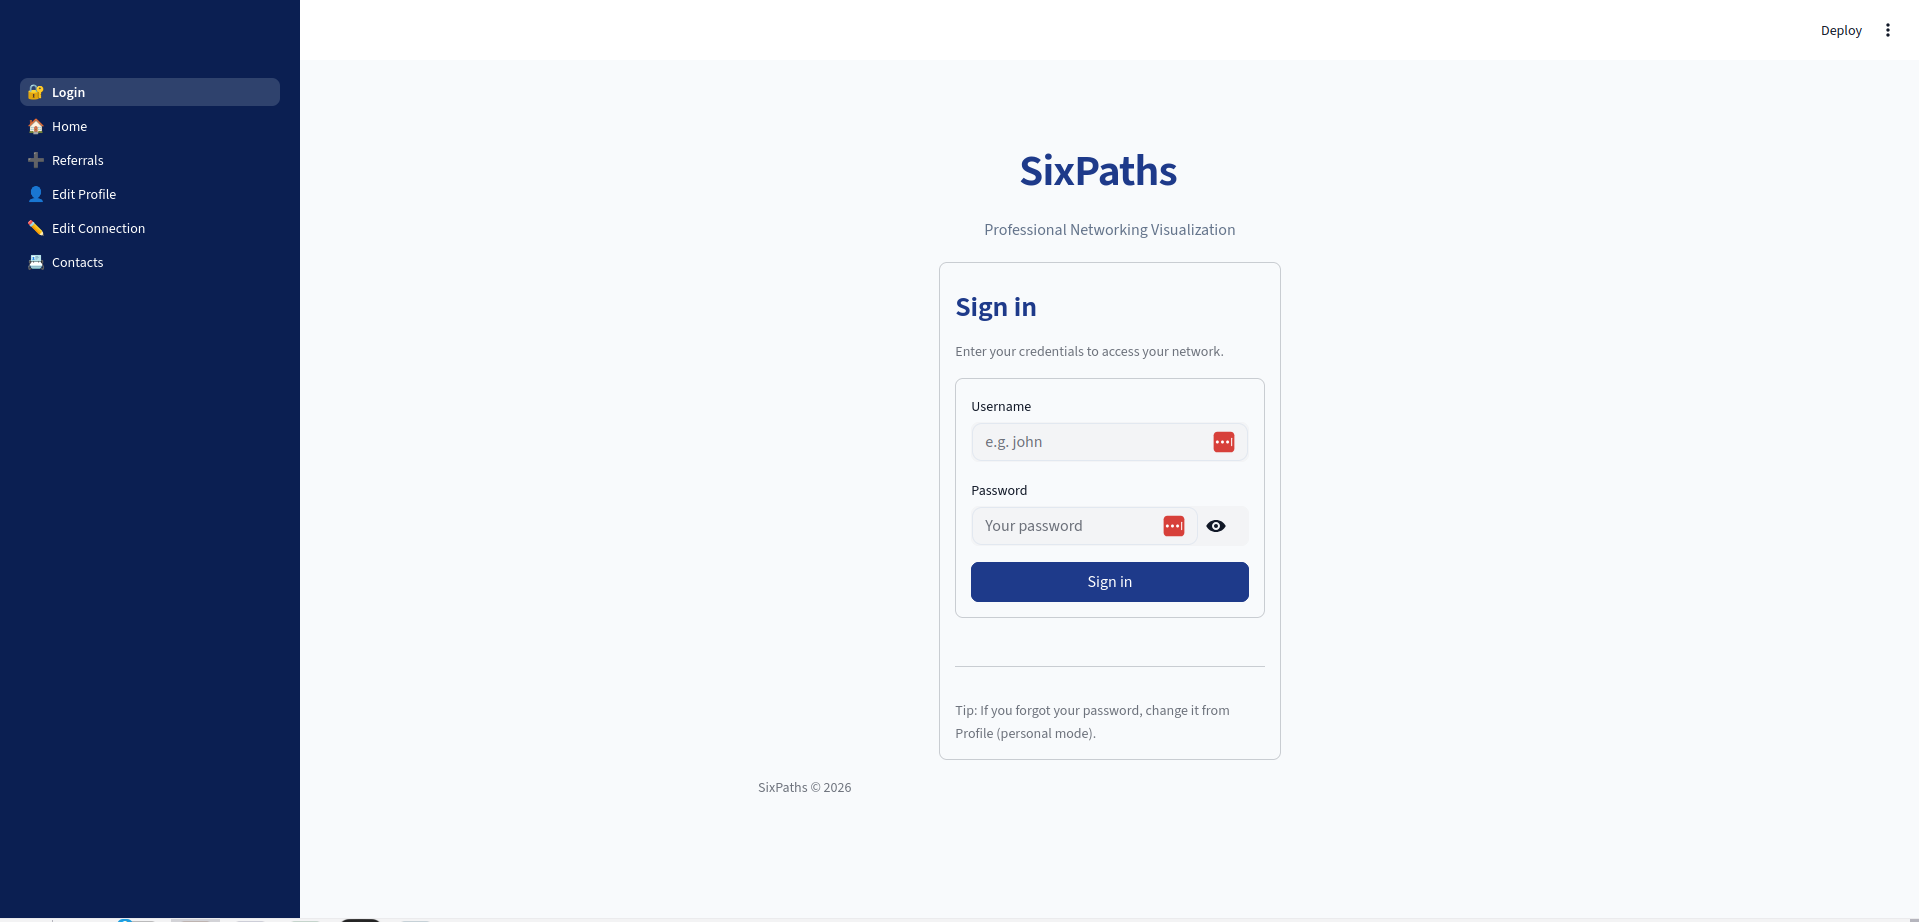
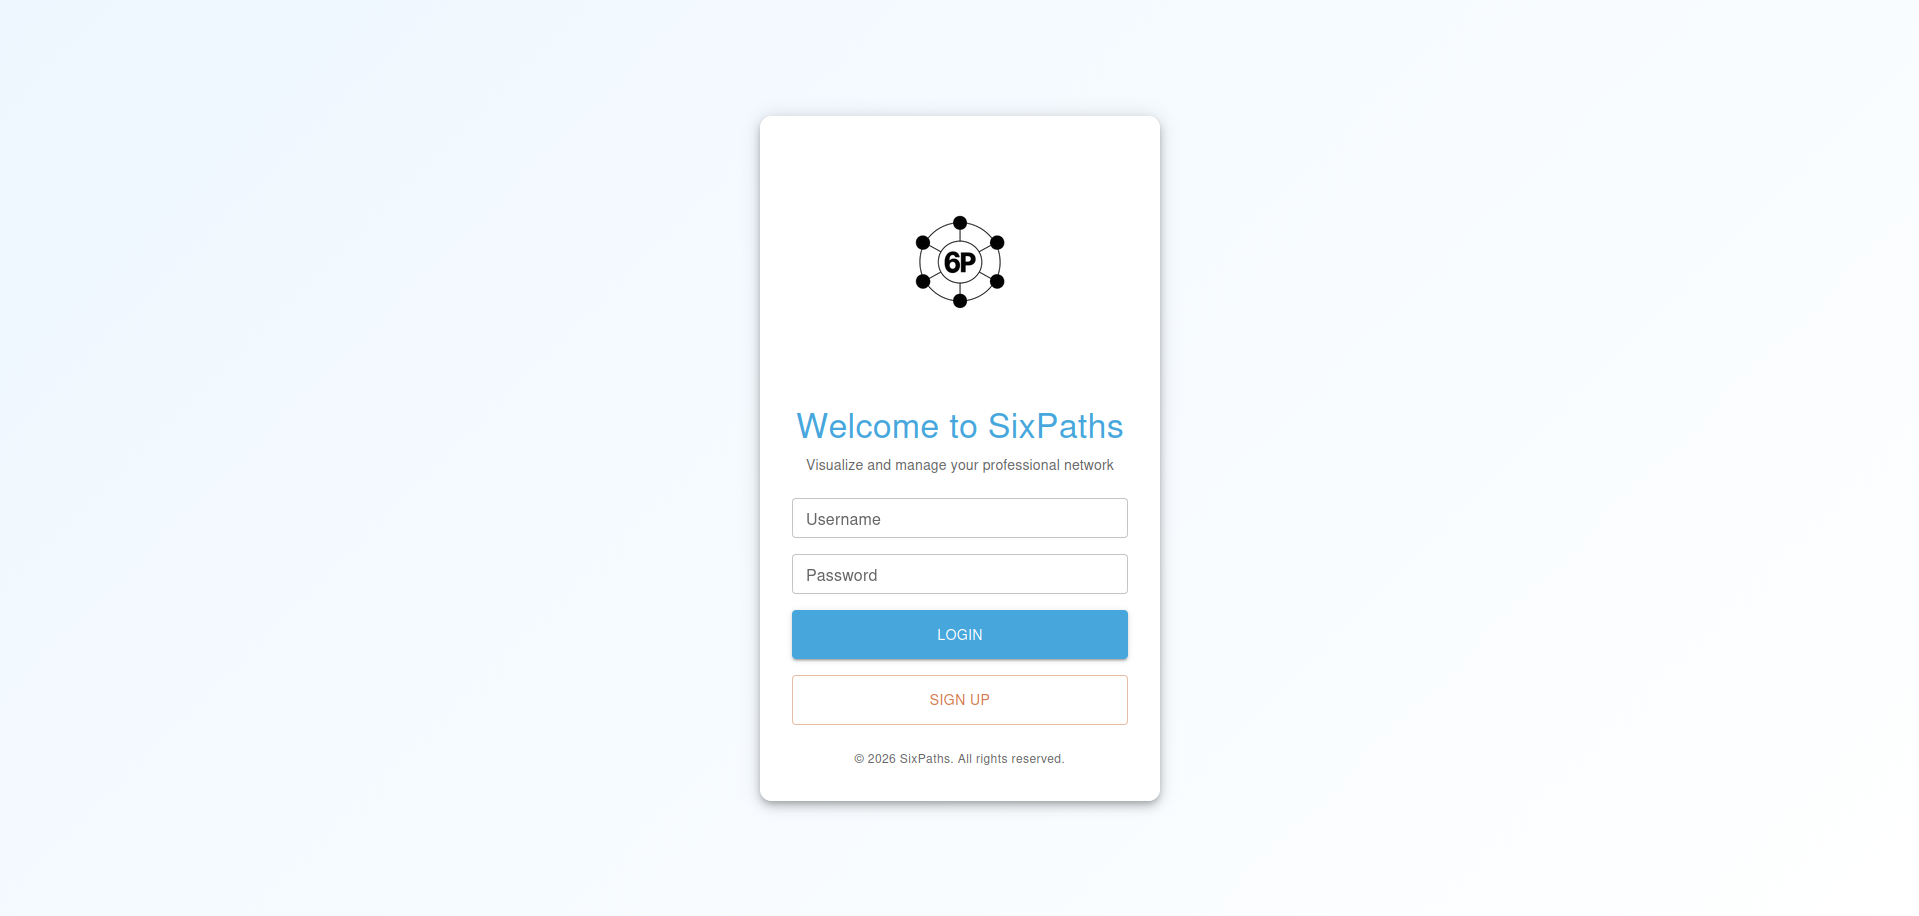
new frontend added

diff --git a/apps/backend/api.py b/apps/backend/api.py
@@ -4,6 +4,7 @@ Provides CRUD operations for users stored in PostgreSQL.
 """
 from contextlib import asynccontextmanager
 from fastapi import FastAPI, Depends, status , Request
+from fastapi.middleware.cors import CORSMiddleware
 from fastapi.responses import JSONResponse
 from sqlalchemy import create_engine
 from services.connectionService import ConnectionService
@@ -61,6 +62,18 @@ app = FastAPI(
     description="REST API for managing users with PostgreSQL backend",
     version="1.0.0",
     lifespan=lifespan
+)
+
+# Configure CORS for frontend connectivity
+app.add_middleware(
+    CORSMiddleware,
+    allow_origins=[
+        "http://localhost:3001",  # Next.js dev server
+        "http://localhost:8501",  # Streamlit (if still needed)
+    ],
+    allow_credentials=True,
+    allow_methods=["*"],
+    allow_headers=["*"],
 )
 
 # Import routers after app is created to avoid circular imports

diff --git a/packages/models/input_models.py b/packages/models/input_models.py
@@ -1,4 +1,5 @@
 from pydantic import BaseModel
+from datetime import date
 
 # Base model with common user fields
 class UserBase(BaseModel):
@@ -10,7 +11,7 @@ class UserBase(BaseModel):
     phone: str | None = None
     linkedin_url: str | None = None
     how_i_know_them: str | None = None
-    when_i_met_them: str | None = None
+    when_i_met_them: date | str | None = None
     notes: str | None = None
     
 # Creation of the User of the app (the authenticated owner)
@@ -34,8 +35,7 @@ class UserUpdate(BaseModel):
     phone: str | None = None
     linkedin_url: str | None = None
     how_i_know_them: str | None = None
-    #TODO: change to Date type
-    when_i_met_them: str | None = None
+    when_i_met_them: date | str | None = None
     notes: str | None = None
 
 

diff --git a/README.md b/README.md
@@ -67,7 +67,7 @@ Referral Tracking: Dedicated page to track and manage referrals between your con
 
 Self-Hosted & Private: Complete control over your data with FastAPI backend and streamlined deployment
 
-Modern Tech Stack: Built with Streamlit frontend, FastAPI backend, and Pydantic models for type-safe API communication
+Modern Tech Stack: Built with React frontend, FastAPI backend, and Pydantic models for type-safe API communication
 
 ## Use Cases
 
@@ -81,7 +81,7 @@ Modern Tech Stack: Built with Streamlit frontend, FastAPI backend, and Pydantic 
 
 ## Tech Stack
 
-- Frontend: Streamlit with PyVis for interactive network graphs
+- Frontend: React (Docker image hosted on Docker Hub)
 
 - Backend: FastAPI with SQLAlchemy ORM
 
@@ -99,11 +99,13 @@ Modern Tech Stack: Built with Streamlit frontend, FastAPI backend, and Pydantic 
 openssl rand -hex 64
 ```
 
-2. Build the database, backend and frontend using the command
+2. Build the database and backend, and pull the frontend image using the command
 
 ```
 docker compose up --build
 ```
+
+The frontend image is pulled automatically from Docker Hub — no local build required.
 
 3. Accessing the application
    - **Frontend**: http://localhost:8501
